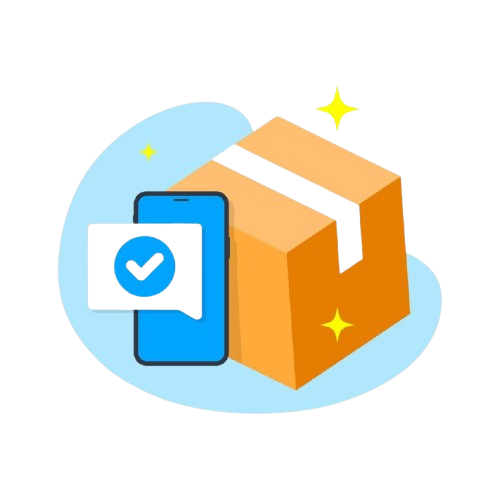
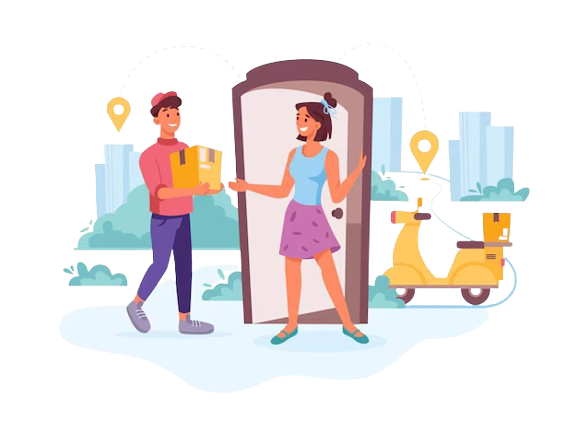
feat: services are not listed in categories

diff --git a/screens/app/home/ServicesCategory.jsx b/screens/app/home/ServicesCategory.jsx
@@ -1,102 +1,158 @@
-import { useNavigation } from "@react-navigation/native"
-import SpinLoading from "components/SpinLoading"
-import { AuthContext } from "context/AuthContext"
-import { Colors } from "lib"
-import { useContext, useEffect, useState } from "react"
-import { View, FlatList, SafeAreaView, Text, TouchableOpacity, StyleSheet, Image } from "react-native"
-import { getServices } from "services/api/services.api"
-
+import { useNavigation } from "@react-navigation/native";
+import SpinLoading from "components/SpinLoading";
+import { AuthContext } from "context/AuthContext";
+import { Colors } from "lib";
+import { useContext, useEffect, useState } from "react";
+import {
+   View,
+   FlatList,
+   SafeAreaView,
+   Text,
+   TouchableOpacity,
+   StyleSheet,
+   Image,
+} from "react-native";
+import { getServices } from "services/api/services.api";
 
 const ServiceItem = ({ data }) => {
-   const navigation = useNavigation()
+   const navigation = useNavigation();
 
    return (
       <View style={styles.container} className="shadow-lg">
          <View style={styles.innerContainer}>
             <Image
                style={styles.imageService}
-               source={{uri: data?.photo?data?.photo:"https://1.bp.blogspot.com/-CLJH1C9LCj8/U_qBzC3WCII/AAAAAAACR9g/_QV42D7tkO8/s1600/imagenes%2Bbonitas%2By%2Bfotos%2Bde%2Bpaisajes%2Bnaturales%2B-%2Bamazing%2Bfree%2Bwallpapers%2B(1).jpg"}}
+               source={{
+                  uri: data?.photo
+                     ? data?.photo
+                     : "https://1.bp.blogspot.com/-CLJH1C9LCj8/U_qBzC3WCII/AAAAAAACR9g/_QV42D7tkO8/s1600/imagenes%2Bbonitas%2By%2Bfotos%2Bde%2Bpaisajes%2Bnaturales%2B-%2Bamazing%2Bfree%2Bwallpapers%2B(1).jpg",
+               }}
                resizeMode="cover"
                width={110}
                height={110}
             />
             <View style={styles.textContainer}>
-               <Text style={styles.title} numberOfLines={1}>{data?.name}</Text>
-               <Text style={styles.description} className="text-text" numberOfLines={5}>{data?.description}</Text>
+               <Text style={styles.title} numberOfLines={1}>
+                  {data?.name}
+               </Text>
+               <Text
+                  style={styles.description}
+                  className="text-text"
+                  numberOfLines={5}
+               >
+                  {data?.description}
+               </Text>
             </View>
          </View>
          {!data?.indefinite && (
-            <Text className="" style={{fontSize:16,fontWeight:800,color:'#364670',paddingTop:6}}>Desde ${data?.unit_amount/100} {data?.currency}</Text>
+            <Text
+               className=""
+               style={{
+                  fontSize: 16,
+                  fontWeight: 800,
+                  color: "#364670",
+                  paddingTop: 6,
+               }}
+            >
+               Desde ${data?.unit_amount / 100} {data?.currency}
+            </Text>
          )}
          <View style={styles.buttonContainer}>
-            <TouchableOpacity onPress={() => navigation.navigate("service", {
-               id: data?.id
-            })} style={styles.buttonService}>
-               <Text className="text-center text-white" style={{ fontWeight:700, fontSize:16 }}>Ver</Text>
+            <TouchableOpacity
+               onPress={() =>
+                  navigation.navigate("service", {
+                     id: data?.id,
+                  })
+               }
+               style={styles.buttonService}
+            >
+               <Text
+                  className="text-center text-white"
+                  style={{ fontWeight: 700, fontSize: 16 }}
+               >
+                  Ver
+               </Text>
             </TouchableOpacity>
          </View>
       </View>
-   )
-}
-
-
-
-const ServicesScreenCategory = ({ route }) => {
-   const [loading, setLoading] = useState(true);
-   const [dataService, setData] = useState([]);
-   const { token } = useContext(AuthContext);
-   const [refresh, setRefresh] = useState(false)
-   const dataCategory = route.params
-
-
-   useEffect(() => {
-      setLoading(true);
-      getServices(token, dataCategory.label).then(data => {
-         if (data?.services) {
-            setData(data.services);
-         }
-      }).finally(() => {
-         setLoading(false);
-      });
-   }, []);
-
-
-   const fetchData = () => {
-      if(refresh) return
-      setRefresh(true)
-      getServices(token, dataCategory.label).then(data => {
-         setData(data.services)
-      }).finally(() => {
-         setRefresh(false)
-      })
-   }
-
-
-
-   return (
-      loading && !dataService.length ? (
-         <View style={{ flex: 1 }} className="flex flex-col items-center justify-center">
-            <SpinLoading size={48} color={Colors.principal.DEFAULT} />
-         </View>
-      ) : (
-         <SafeAreaView style={{ flex: 1 }}>
-            <FlatList
-               data={dataService}
-               renderItem={({ item }) => <ServiceItem data={item} />}
-               keyExtractor={item => item.id.toString()}
-               contentContainerStyle={{
-                  gap: 12,
-                  paddingHorizontal: 8,
-                  paddingVertical: 8,
-               }}
-               refreshing={refresh}
-               onRefresh={fetchData}
-            />
-         </SafeAreaView>
-      )
    );
 };
 
+const ServicesScreenCategory = ({ route }) => {
+   const navigation = useNavigation();
+   const [loading, setLoading] = useState(true);
+   const [dataService, setData] = useState([]);
+   const { token } = useContext(AuthContext);
+   const [refresh, setRefresh] = useState(false);
+   const dataCategory = route.params;
+
+   useEffect(() => {
+      setLoading(true);
+      getServices(token, dataCategory.label)
+         .then((data) => {
+            if (data?.services) {
+               setData(data.services);
+            }
+         })
+         .finally(() => {
+            setLoading(false);
+         });
+   }, []);
+
+   const fetchData = () => {
+      if (refresh) return;
+      setRefresh(true);
+      getServices(token, dataCategory.label)
+         .then((data) => {
+            setData(data.services);
+         })
+         .finally(() => {
+            setRefresh(false);
+         });
+   };
+
+   return loading && !dataService.length ? (
+      <View
+         style={{ flex: 1 }}
+         className="flex flex-col items-center justify-center"
+      >
+         <SpinLoading size={48} color={Colors.principal.DEFAULT} />
+      </View>
+   ) : (
+      <SafeAreaView style={{ flex: 1 }}>
+         <FlatList
+            data={dataService}
+            renderItem={({ item }) => <ServiceItem data={item} />}
+            keyExtractor={(item) => item.id.toString()}
+            contentContainerStyle={{
+               gap: 12,
+               paddingHorizontal: 8,
+               paddingVertical: 8,
+            }}
+            refreshing={refresh}
+            onRefresh={fetchData}
+            ListEmptyComponent={() => (
+               <View className="items-center mt-10">
+                  <Image
+                     source={require("assets/empty-services.png")}
+                     className="w-[180px] h-[180px] mb-6"
+                     resizeMode="contain"
+                  />
+                  <Text className="text-base text-gray-500 mb-4">
+                     No hay servicios disponibles en esta categoría.
+                  </Text>
+                  <TouchableOpacity
+                     className="bg-slate-800 py-3 px-8 rounded-lg"
+                     onPress={() => navigation.navigate("home")}
+                  >
+                     <Text className="text-white font-bold">Ir al inicio</Text>
+                  </TouchableOpacity>
+               </View>
+            )}
+         />
+      </SafeAreaView>
+   );
+};
 
 const styles = StyleSheet.create({
    container: {
@@ -104,18 +160,18 @@ const styles = StyleSheet.create({
       shadowOffset: { width: 0, height: 2 },
       shadowOpacity: 0.25,
       shadowRadius: 4,
-      backgroundColor: 'white',
+      backgroundColor: "white",
       borderRadius: 8,
-      overflow: 'hidden',
+      overflow: "hidden",
       paddingHorizontal: 8,
       paddingVertical: 8,
       gap: 8,
       display: "flex",
-      justifyContent: "center"
+      justifyContent: "center",
    },
    innerContainer: {
-      flexDirection: 'row',
-      alignItems: 'flex-start',
+      flexDirection: "row",
+      alignItems: "flex-start",
       gap: 6,
    },
    imageService: {
@@ -125,28 +181,27 @@ const styles = StyleSheet.create({
    },
    textContainer: {
       flex: 1, // Permite que el contenedor de texto use el espacio restante
-      justifyContent: 'center',
+      justifyContent: "center",
    },
    title: {
-      fontWeight: '700',
-      color: 'black', // Ajusta el color del texto según sea necesario
-      fontSize: 20
+      fontWeight: "700",
+      color: "black", // Ajusta el color del texto según sea necesario
+      fontSize: 20,
    },
    description: {
       flexShrink: 1, // Permite que el texto se ajuste y no se desborde
    },
    buttonContainer: {
-      display: 'flex',
-      flexDirection: 'row',
-      gap: 6
+      display: "flex",
+      flexDirection: "row",
+      gap: 6,
    },
    buttonService: {
       flex: 1,
       paddingVertical: 6,
       borderRadius: 6,
-      backgroundColor: Colors.principal.DEFAULT
-   }
+      backgroundColor: Colors.principal.DEFAULT,
+   },
 });
 
-
-export default ServicesScreenCategory
+export default ServicesScreenCategory;
